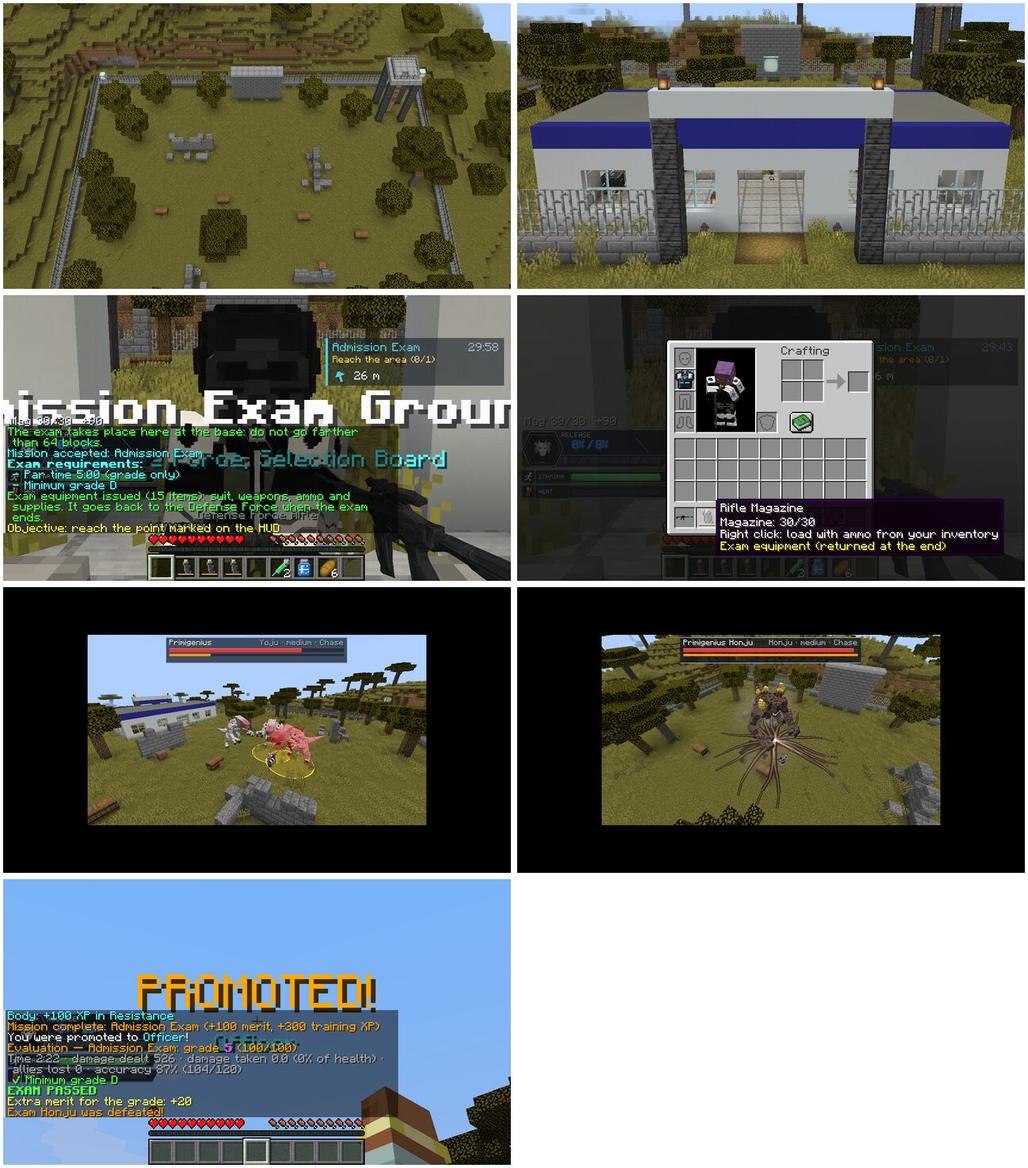
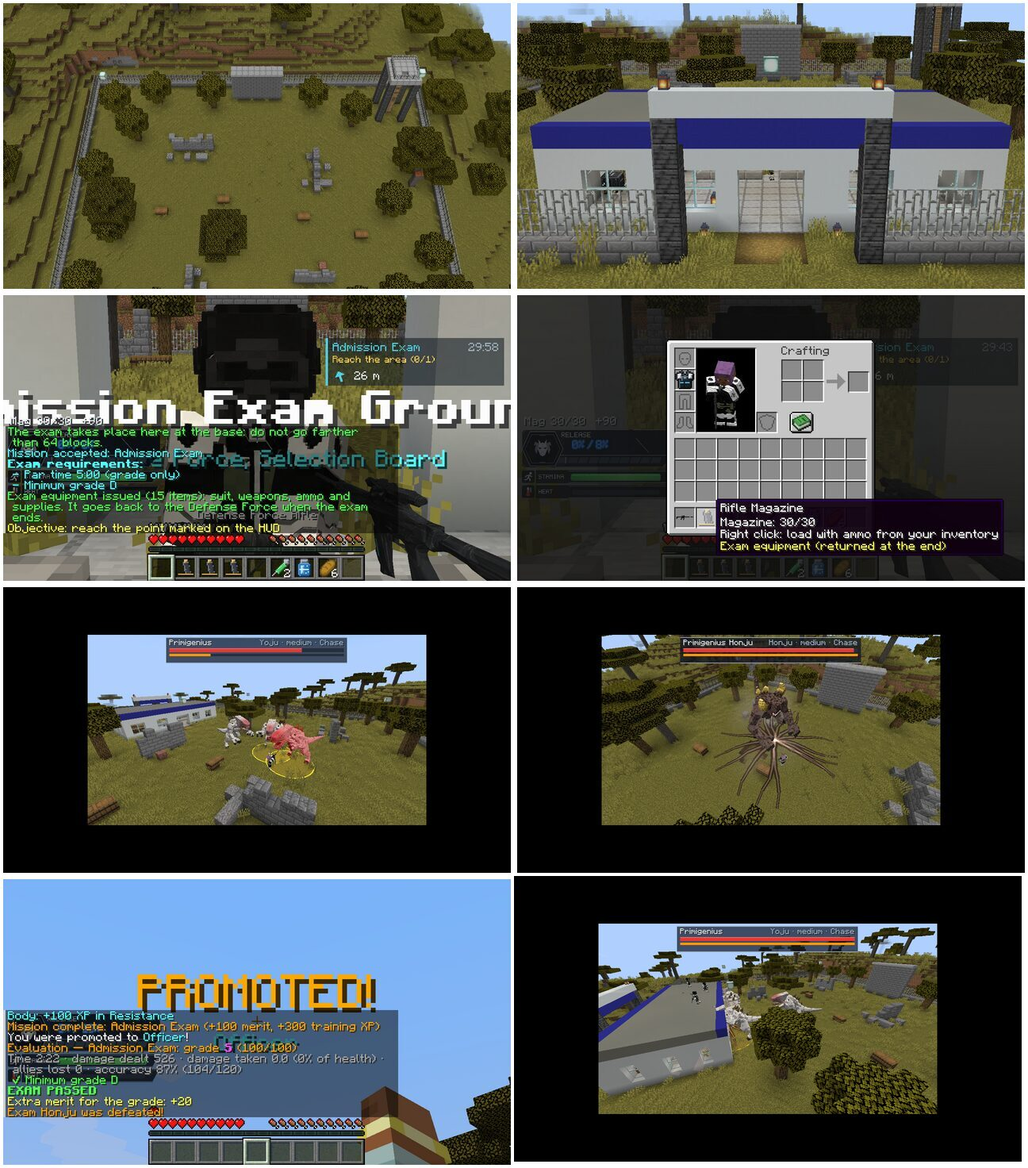
feat(exame): candidatos fazem o exame junto e o aprovado fica com o kit
Claude-Session: https://claude.ai/code/session_017FdjdyWukRvtaFxwV9cKsp

Changed region(s): [[0.4938, 0.75, 1.0, 1.0]]

diff --git a/src/main/java/com/kn8/common/career/MissionService.java b/src/main/java/com/kn8/common/career/MissionService.java
@@ -18,8 +18,10 @@ import com.kn8.common.data.def.MissionDef;
 import com.kn8.common.destruction.ProtectedAreas;
 import com.kn8.common.evacuation.EvacuationService;
 import com.kn8.common.kaiju.KaijuEntity;
+import com.kn8.common.registry.KN8Entities;
 import com.kn8.common.registry.KN8Sounds;
 import com.kn8.common.site.RegionService;
+import com.kn8.common.soldier.SoldierEntity;
 import com.kn8.common.soldier.SquadService;
 import com.kn8.common.world.KaijuSpawner;
 import com.kn8.core.career.MissionGrader;
@@ -36,6 +38,7 @@ import net.minecraft.server.level.ServerLevel;
 import net.minecraft.server.level.ServerPlayer;
 import net.minecraft.sounds.SoundEvents;
 import net.minecraft.sounds.SoundSource;
+import net.minecraft.world.entity.MobSpawnType;
 import net.minecraft.world.item.Item;
 import net.minecraft.world.item.ItemStack;
 
@@ -66,6 +69,9 @@ public final class MissionService {
         NEEDS_SITE
     }
 
+    /** EXAME: arma e nivel dos soldados que fazem a prova junto [SUPOSICAO]. */
+    private static final String CANDIDATE_VARIANT = "rifle";
+    private static final String CANDIDATE_LEVEL = "normal";
     /** EXAME: raio onde estao os invocados que nascem junto do chefe da prova. */
     private static final double BOSS_MINION_RADIUS = 16.0;
     /** EXAME: pontos sorteados para os alvos da prova (fica o mais longe do jogador). */
@@ -168,6 +174,8 @@ public final class MissionService {
             player.sendSystemMessage(Component.translatable(arena.returnKit() ? "kn8.mission.kit_loaned"
                     : "kn8.mission.kit_given", given).withStyle(ChatFormatting.GREEN));
         });
+        def.arena().filter(arena -> arena.candidates() > 0 && origin.isPresent())
+                .ifPresent(arena -> spawnCandidates(player, id, origin.get(), arena.candidates()));
         activateObjective(player, id, def, progress, 0);
         CareerService.changed(player);
         return Result.OK;
@@ -179,6 +187,7 @@ public final class MissionService {
             return false;
         }
         cleanup(player, id, removed);
+        endKit(player, id, false);
         player.sendSystemMessage(Component.translatable("kn8.mission.abandoned", name(id))
                 .withStyle(ChatFormatting.GRAY));
         CareerService.changed(player);
@@ -457,9 +466,11 @@ public final class MissionService {
         cleanup(player, id, progress);
         MissionGrader.Result result = evaluate(player, def, progress);
         if (def.grading().isPresent() && !result.passed()) {
+            endKit(player, id, false);
             failExam(player, id, def, progress, result);
             return;
         }
+        endKit(player, id, true);
         data.completed().add(id);
         data.addMissionDone();
         if (def.repeatable() && def.cooldownTicks() > 0) {
@@ -624,6 +635,7 @@ public final class MissionService {
         CareerData.MissionProgress removed = CareerService.data(player).active().remove(id);
         if (removed != null) {
             cleanup(player, id, removed);
+            endKit(player, id, false);
         }
         player.sendSystemMessage(Component.translatable("kn8.mission.failed." + reason, name(id))
                 .withStyle(ChatFormatting.RED));
@@ -645,10 +657,48 @@ public final class MissionService {
             ProtectedAreas.get(player.serverLevel()).remove(ExamTargets.areaName(player.getUUID(), id));
         });
         EvacuationService.clear(player, id);
-        // EXAME: o kit emprestado volta para a Forca de Defesa quando a prova acaba (de qualquer jeito).
-        KN8Data.MISSION.get(id, false).flatMap(MissionDef::arena).filter(MissionDef.Arena::returnKit)
+        progress.origin().ifPresent(origin -> ExamTargets.clearCandidates(player.serverLevel(), player.getUUID(), id,
+                origin, ServerConfig.EXAM_LEAVE_DISTANCE.get() + 32));
+    }
+
+    /**
+     * EXAME: outros candidatos fazem a prova junto (soldados comuns de rifle no posto do centro do campo, com o nome
+     * "Candidato"); lutam so com os kaiju desta prova e vao embora quando ela acaba.
+     */
+    private static void spawnCandidates(ServerPlayer player, ResourceLocation id, BlockPos center, int count) {
+        ServerLevel level = player.serverLevel();
+        for (int i = 0; i < count; i++) {
+            SoldierEntity soldier = KN8Entities.SOLDIER.get().create(level);
+            if (soldier == null) {
+                continue;
+            }
+            BlockPos pos = KaijuSpawner.surfaceAround(level, player.blockPosition(), 1.5, 3.5, player.getRandom());
+            soldier.moveTo(pos.getX() + 0.5, pos.getY(), pos.getZ() + 0.5, player.getYRot(), 0.0F);
+            soldier.setVariant(CANDIDATE_VARIANT);
+            soldier.setPowerLevel(CANDIDATE_LEVEL);
+            soldier.finalizeSpawn(level, level.getCurrentDifficultyAt(pos), MobSpawnType.EVENT, null);
+            soldier.setSquadPost(center);
+            soldier.setCustomName(Component.translatable("kn8.mission.exam_candidate"));
+            ExamTargets.markCandidate(soldier, player.getUUID(), id);
+            level.addFreshEntity(soldier);
+        }
+        player.sendSystemMessage(Component.translatable("kn8.mission.exam_candidates", count)
+                .withStyle(ChatFormatting.AQUA));
+    }
+
+    /**
+     * EXAME: fim do kit. Aprovado fica com ele (Miguel, 2026-10-30); quem reprova, abandona ou cai devolve (com
+     * {@code return_kit}).
+     */
+    private static void endKit(ServerPlayer player, ResourceLocation id, boolean passed) {
+        KN8Data.MISSION.get(id, false).flatMap(MissionDef::arena).filter(arena -> !arena.kit().isEmpty())
                 .ifPresent(arena -> {
-                    if (ExamKit.take(player, id) > 0) {
+                    if (passed) {
+                        if (ExamKit.release(player, id) > 0) {
+                            player.sendSystemMessage(Component.translatable("kn8.mission.kit_kept")
+                                    .withStyle(ChatFormatting.GREEN));
+                        }
+                    } else if (arena.returnKit() && ExamKit.take(player, id) > 0) {
                         player.sendSystemMessage(Component.translatable("kn8.mission.kit_returned")
                                 .withStyle(ChatFormatting.GRAY));
                     }

diff --git a/src/main/java/com/kn8/gametest/AdmissionExamGameTests.java b/src/main/java/com/kn8/gametest/AdmissionExamGameTests.java
@@ -107,6 +107,37 @@ public final class AdmissionExamGameTests {
         helper.succeed();
     }
 
+    @GameTest(template = TEMPLATE)
+    public static void passedCandidateKeepsTheKit(GameTestHelper helper) {
+        FakePlayer player = player(helper, "keep");
+        MissionDef.Arena arena = KN8Data.MISSION.server().get(EXAM).arena().orElseThrow();
+        helper.assertTrue(arena.candidates() > 0, "O exame de admissao deveria ter outros candidatos");
+        int given = ExamKit.give(player, EXAM, arena.kit());
+        int kept = ExamKit.release(player, EXAM);
+        helper.assertTrue(kept == given, "Aprovado deveria ficar com tudo: " + kept + " de " + given);
+        helper.assertTrue(player.getItemBySlot(EquipmentSlot.CHEST).is(KN8Items.MK1.get())
+                && ExamKit.missionOf(player.getItemBySlot(EquipmentSlot.CHEST)).isEmpty(),
+                "O traje fica vestido e sem a marca do exame");
+        helper.assertTrue(ExamKit.take(player, EXAM) == 0, "Sem a marca nada mais e recolhido");
+        helper.succeed();
+    }
+
+    @GameTest(template = TEMPLATE, timeoutTicks = 120, batch = "kn8_admission_candidate")
+    public static void candidatesFightTheirExamKaiju(GameTestHelper helper) {
+        UUID owner = UUID.randomUUID();
+        SoldierEntity candidate = helper.spawn(KN8Entities.SOLDIER.get(), new BlockPos(2, 1, 2));
+        ExamTargets.markCandidate(candidate, owner, EXAM);
+        KaijuEntity kaiju = helper.spawn(KN8Entities.PRIMIGENIUS.get(), new BlockPos(6, 1, 6));
+        kaiju.setNoAi(true);
+        ExamTargets.mark(kaiju, owner, EXAM);
+        helper.runAfterDelay(60, () -> {
+            helper.assertTrue(candidate.getTarget() == kaiju, "O candidato deveria lutar com o kaiju da prova dele");
+            kaiju.discard();
+            candidate.discard();
+            helper.succeed();
+        });
+    }
+
     @GameTest(template = TEMPLATE, timeoutTicks = 120, batch = "kn8_admission_soldier")
     public static void soldiersLeaveExamKaijuToTheCandidate(GameTestHelper helper) {
         SoldierEntity soldier = helper.spawn(KN8Entities.SOLDIER.get(), new BlockPos(2, 1, 2));

diff --git a/src/main/java/com/kn8/common/data/def/MissionDef.java b/src/main/java/com/kn8/common/data/def/MissionDef.java
@@ -24,17 +24,20 @@ public record MissionDef(Category category, Optional<ResourceLocation> giver, Re
      * EXAME (Miguel, 2026-10-30: "exame de admissao numa area propria, com armas, armadura, municao e itens entregues
      * no inicio"): prova que so pode ser aceita dentro do local {@code site} (registro {@code site}, ex. o Campo do
      * Exame de Admissao); os alvos surgem entre {@code min_distance} e {@code max_distance} do centro do local; o
-     * {@code kit} e entregue ao aceitar (armadura vestida se o slot estiver livre, armas de fogo e pentes cheios) e,
-     * com {@code return_kit}, recolhido no fim (concluida, reprovada ou abandonada).
+     * {@code kit} e entregue ao aceitar (armadura vestida se o slot estiver livre, armas de fogo e pentes cheios); o
+     * aprovado fica com ele (Miguel, 2026-10-30) e, com {@code return_kit}, quem reprova, abandona ou cai devolve.
+     * {@code candidates}: soldados que fazem a prova junto com o jogador (Miguel: "implemente alguns soldados para fazer
+     * o exame com o jogador").
      */
     public record Arena(Optional<ResourceLocation> site, double minDistance, double maxDistance, List<KitItem> kit,
-            boolean returnKit) {
+            boolean returnKit, int candidates) {
         public static final Codec<Arena> CODEC = RecordCodecBuilder.create(i -> i.group(
                 ResourceLocation.CODEC.optionalFieldOf("site").forGetter(Arena::site),
                 Codec.doubleRange(0.0, 256.0).optionalFieldOf("min_distance", 6.0).forGetter(Arena::minDistance),
                 Codec.doubleRange(1.0, 256.0).optionalFieldOf("max_distance", 14.0).forGetter(Arena::maxDistance),
                 KitItem.CODEC.listOf().optionalFieldOf("kit", List.of()).forGetter(Arena::kit),
-                Codec.BOOL.optionalFieldOf("return_kit", true).forGetter(Arena::returnKit)
+                Codec.BOOL.optionalFieldOf("return_kit", true).forGetter(Arena::returnKit),
+                Codec.intRange(0, 16).optionalFieldOf("candidates", 0).forGetter(Arena::candidates)
         ).apply(i, Arena::new));
     }
 

diff --git a/src/main/java/com/kn8/common/career/ExamTargets.java b/src/main/java/com/kn8/common/career/ExamTargets.java
@@ -5,6 +5,7 @@ import java.util.UUID;
 
 import com.kn8.common.arena.TrainingArenaService;
 import com.kn8.common.kaiju.KaijuEntity;
+import com.kn8.common.soldier.SoldierEntity;
 
 import net.minecraft.core.BlockPos;
 import net.minecraft.nbt.CompoundTag;
@@ -32,6 +33,31 @@ public final class ExamTargets {
         tag.putUUID(OWNER, owner);
         tag.putString(MISSION, mission.toString());
         entity.getPersistentData().put(TAG, tag);
+    }
+
+    /** EXAME: soldado que faz a prova junto com o jogador (marca com o dono e a missao, como os kaiju). */
+    public static final String CANDIDATE_TAG = "kn8_exam_candidate";
+
+    public static void markCandidate(Entity entity, UUID owner, ResourceLocation mission) {
+        CompoundTag tag = new CompoundTag();
+        tag.putUUID(OWNER, owner);
+        tag.putString(MISSION, mission.toString());
+        entity.getPersistentData().put(CANDIDATE_TAG, tag);
+    }
+
+    /** Dono da prova que o soldado faz junto (null = nao e candidato). */
+    public static UUID candidateOwner(Entity entity) {
+        CompoundTag tag = entity.getPersistentData().getCompound(CANDIDATE_TAG);
+        return tag.hasUUID(OWNER) ? tag.getUUID(OWNER) : null;
+    }
+
+    /** Fim da prova: os candidatos que a fizeram junto vao embora. */
+    public static void clearCandidates(ServerLevel level, UUID owner, ResourceLocation mission, BlockPos origin,
+            double radius) {
+        level.getEntitiesOfClass(SoldierEntity.class, new AABB(origin).inflate(radius),
+                soldier -> owner.equals(candidateOwner(soldier)) && mission.toString().equals(
+                        soldier.getPersistentData().getCompound(CANDIDATE_TAG).getString(MISSION)))
+                .forEach(Entity::discard);
     }
 
     /** Passa a marca da prova de um kaiju para outro (invocados do chefe da prova). */

diff --git a/src/main/java/com/kn8/common/career/ExamKit.java b/src/main/java/com/kn8/common/career/ExamKit.java
@@ -32,7 +32,8 @@ import net.neoforged.neoforge.event.entity.living.LivingDropsEvent;
 /**
  * Kit do exame (EXAME): itens emprestados pela Forca de Defesa no inicio da prova ({@link MissionDef.Arena#kit}).
  * Cada item leva a marca {@value #TAG} com o id da missao nos dados do item; no fim da prova (e na morte) os itens
- * marcados saem do inventario. Tambem acha o centro do local da prova ({@link MissionDef.Arena#site}).
+ * marcados saem do inventario de quem nao foi aprovado (o aprovado fica com eles, sem a marca). Tambem acha o centro
+ * do local da prova ({@link MissionDef.Arena#site}).
  */
 @EventBusSubscriber(modid = KN8Constants.MOD_ID)
 public final class ExamKit {
@@ -89,6 +90,24 @@ public final class ExamKit {
             }
         }
         return taken;
+    }
+
+    /** Aprovado (Miguel, 2026-10-30: "o aprovado fica"): os itens do kit perdem a marca e passam a ser do jogador. */
+    public static int release(ServerPlayer player, ResourceLocation mission) {
+        int kept = 0;
+        Inventory inventory = player.getInventory();
+        for (int slot = 0; slot < inventory.getContainerSize(); slot++) {
+            ItemStack stack = inventory.getItem(slot);
+            if (missionOf(stack).filter(mission.toString()::equals).isPresent()) {
+                CustomData.update(DataComponents.CUSTOM_DATA, stack, tag -> tag.remove(TAG));
+                if (stack.get(DataComponents.CUSTOM_DATA) != null
+                        && stack.get(DataComponents.CUSTOM_DATA).isEmpty()) {
+                    stack.remove(DataComponents.CUSTOM_DATA);
+                }
+                kept += stack.getCount();
+            }
+        }
+        return kept;
     }
 
     /** Morte durante a prova: os itens do kit nao caem no chao (voltam para a Forca de Defesa). */

diff --git a/src/main/java/com/kn8/common/soldier/SoldierTargetGoal.java b/src/main/java/com/kn8/common/soldier/SoldierTargetGoal.java
@@ -151,15 +151,16 @@ public final class SoldierTargetGoal extends Goal {
     }
 
     /**
-     * EXAME: kaiju de prova e do candidato (o exame nao e ganho pelos soldados); so o esquadrao do dono da prova luta
-     * com eles.
+     * EXAME: kaiju de prova e do candidato (o exame nao e ganho pelos soldados); so o esquadrao do dono da prova e os
+     * candidatos que fazem a prova com ele lutam com eles.
      */
     private boolean examAllowed(KaijuEntity kaiju) {
         if (!ExamTargets.isExam(kaiju)) {
             return true;
         }
         UUID owner = ExamTargets.owner(kaiju);
-        return owner != null && soldier.squadLeader().filter(owner::equals).isPresent();
+        return owner != null && (soldier.squadLeader().filter(owner::equals).isPresent()
+                || owner.equals(ExamTargets.candidateOwner(soldier)));
     }
 
     /** IA-3 (protecao de aliados): o alvo do kaiju e outro soldado ou um jogador. */

diff --git a/CLAUDE.md b/CLAUDE.md
@@ -181,7 +181,7 @@ mandam; se algo precisar mudar, marque **[DECIDIR]** e pergunte.
 | Correcoes da FIX-2 (Miguel, 2026-10-29: "modelos dos numerados e personagens que se partem no meio, armas fora da mao", so a base) | Tres causas medidas (`tools/art/rig_audit.py`: abertura de cada junta em px e distancia do punho ao eixo da arma, com a mesma conta do `SoldierRenderer`; compara com o estado de antes do RIG-2). **1. Arma:** desde o RIG-2 o `item_*` e filho da mao (a ~1 px dela) e o `SoldierRenderer` alinhava a arma ao eixo pai -> item: girava para fora da mao → `armRoot` (osso `arm_*` acima do item: eixo ombro -> item, como antes); `hoshina_hand` no `blockbench_templates.py` igual; pegada das espadas do Hoshina refeita (`gen_hoshina_animations.py`). **2. Pivos:** as especies com a malha e as animacoes de antes (soldado, Hoshina No. 10, Kikoru e No. 4, Mina, Reno e No. 6, Narumi, Kafka, fusao, No. 10 pequeno e gigante) voltam ao pivo antigo em `body`, `head`, `arm_*`, `leg_*` (`tools/art/skins/legacy_pivots.json`, aplicado pelo `rig_from_skin.py`) e ao corte antigo do quadril (rotulos antigos do `.npz`); o tronco do gigante tinha andado 30 px para o lado e 64 para cima. Joelho, pe, peito, cotovelo e punho continuam no rig. Arma = antes do RIG-2 (0,0 px de diferenca). **3. Pernas na raiz:** no rig antigo do No. 10 e da fusao as pernas eram filhas do tronco; o RIG-2 as pos na raiz e a bacia abria quando o tronco inclinava → `legs_on_body`. Fora: Hoshina e No. 8 (modelo novo) e No. 9, forma preta, Isao, No. 13, No. 9 com o Isao (animacoes do `humanoid_anims.py` feitas no rig novo). Faixa de faces sobreposta nas juntas foi testada e descartada (lascas pontudas). Tecnicas nao foram refeitas (COMBATE) |
 | Parkour refeito (FIX-3, Miguel 2026-10-30: "pular em construcoes, agarrar bordas, pular de predio em predio, escalar predios") | **Escalar parede** (estado `ParkourState.CLIMB` e movimento `ParkourMove.WALL_CLIMB` no fim dos enums; protocolo 38): C de frente para parede mais alta que 2 blocos, no chao (tambem chegando nela com C segurado) ou no ar andando para ela; servidor confere a parede e cobra `[parkour] wallClimbCost` + `wallClimbCostPerSecond`, ate `wallClimbMaxTicks`; cliente sobe `wallClimbSpeed` x nivel com W, desce com S (`ParkourMath.climbVertical`), Espaco = wall-jump (CLIMB conta como parede), Shift solta; no topo (borda ate 2 blocos acima) pede a borda sozinho e, com C segurado, sobe. **Borda automatica** (`autoLedgeGrab`): no ar andando para a frente, sem subir rapido, borda de 1,0 a 2,4 acima dos pes (`ParkourMath.autoLedge`), conferida a cada tick com parede a frente (caindo rapido a faixa passava entre checagens); pedido com `side` -1. Borda ate `ledgeMaxHeight` 2,6 (era 2,2), pendurado ate `ledgeMaxTicks` 200 (era 60), A/D anda de lado (`ledgeShimmySpeed`, a velocidade do estado). **Subir a borda:** topo medido de novo na hora e `ledgeClimbMargin` 0,7 acima dele; o vanilla zera a velocidade horizontal enquanto o corpo bate na parede, entao o cliente empurra para dentro por 12 ticks depois do pulo (`MANTLE_PUSH`). Predio em predio = salto longo de antes (~8 blocos) + borda automatica. Animacao `player.parkour.wall_climb` [SUPOSICAO numeros] |
 | Corpo por exercicio (TREINO, Miguel 2026-10-30: "atributos do corpo ganhos por exercicio (corrida, escalada, forca, combate contra soldados), sem ganhar pontos por matar kaiju") | **Kaiju nao treina o corpo:** golpe em kaiju nao da XP de forca e golpe de kaiju nao da XP de resistencia (`[body] xpFromKaiju` false; matar kaiju continua dando experiencia de batalha, o XP de Release dos abates, e merito para subir de patente: Miguel 2026-10-30). **Corrida:** como antes (velocidade por bloco corrido). **Escalada:** `ParkourService.trainClimb` da agilidade e forca por bloco subido no estado `CLIMB` (`xpClimbAgilityPerBlock` 0,6, `xpClimbStrengthPerBlock` 0,3). **Forca:** bloco `kn8:weight_rack` (`WeightRackBlock`/`WeightTraining`): cada uso = repeticao com stamina, XP, intervalo e limite por minuto (`[exercise] lift*`; estado em `getPersistentData()` > `kn8_lift`); bancada (Treino), na ala de treino das bases (3 suportes + torre de escalada de 7) e no Patio de Treino da base do jogador (2); arte `tools/art/gen_weight_rack_assets.py`. **Combate contra soldados** (`SparringService`): Shift + clique de mao vazia num soldado comum (nao especial: [SUPOSICAO]) comeca o treino; os dois podem se ferir pelo mesmo caminho do duelo de teste (`SoldierEntity.isDuelFoe` aceita o par), o `SoldierTargetGoal` so mira o parceiro, ninguem morre (golpe para em 1 de vida), quem cai a `sparYieldFraction` 0,25 perde; soldado bate x`sparPlayerDamageFactor` 0,35; forca por dano no parceiro, resistencia por dano do parceiro, vitoria +15 em todos; fim por tempo (2 min), distancia (24), kaiju a 32, Shift + clique de novo; soldado sai curado e descansa 30 s. Marca no soldado (`kn8_spar`, inicio, espera) e no jogador; dano do treino fora da avaliacao de missao. Numeros [SUPOSICAO] em `docs/BALANCEAMENTO.md` |
-| Exame de admissao (EXAME, Miguel 2026-10-30: "exame de admissao numa area propria, com armas, armadura, municao e itens entregues no inicio"; decisoes do mesmo dia: matar kaiju da experiencia de batalha e sobe patente, treino com especiais depois, numeros depois) | **Area propria:** `kn8:exam_ground` (Campo do Exame de Admissao, `tools/world/gen_exam_ground.py`): campo cercado de 61 x 61 com portao ao sul, pavilhao com o Oficial de Provas, armarios e um suporte de pesos, torre de observacao, refletores e a zona de prova ao norte (mata, ruinas, muro de escalada, caixas); sem soldados. Nasce no conjunto `kn8:defense_sites` (peso 2, `kn8:checked_jigsaw` com raio 40, desnivel 10, as mesmas vilas evitadas) e e local (`site/exam_ground.json`, divisao `selection`: nome na tela e regiao). **Bloco `arena` no `mission/*.json`** (`MissionDef.Arena`): `site` (a prova so e aceita dentro do local: `MissionService.Result.NEEDS_SITE`; o centro do local vira a origem), `min_distance`/`max_distance` dos alvos, `kit` (`item`, `count`) e `return_kit`. **Kit** (`ExamKit`): entregue ao aceitar com a marca `kn8_exam_kit` nos dados do item (armadura vestida no slot livre, pentes cheios, arma de fogo cheia), dica amarela no item, recolhido no fim (concluida, reprovada, abandonada) e nao cai na morte. `exam` (Candidato -> Oficial) com o kit Mk1, rifle, 3 pentes, 60 balas, faca, 2 estimulantes, resfriador, 6 paes; deixou de pedir o Primeiro Desmonte [SUPOSICAO]. **Alvos da prova longe do candidato** (`MissionService.targetArea`: o ponto mais longe entre 9 sorteados) e **invocados do chefe da prova com a marca da prova** (`ExamTargets.copy`, no `BossService.summonMinions` e na hora do surgimento). **Soldados nao lutam com kaiju da prova de outro jogador** (`SoldierTargetGoal.examAllowed`: so o esquadrao do dono) [SUPOSICAO numeros e kit] |
+| Exame de admissao (EXAME, Miguel 2026-10-30: "exame de admissao numa area propria, com armas, armadura, municao e itens entregues no inicio"; decisoes do mesmo dia: matar kaiju da experiencia de batalha e sobe patente, treino com especiais depois, numeros depois) | **Area propria:** `kn8:exam_ground` (Campo do Exame de Admissao, `tools/world/gen_exam_ground.py`): campo cercado de 61 x 61 com portao ao sul, pavilhao com o Oficial de Provas, armarios e um suporte de pesos, torre de observacao, refletores e a zona de prova ao norte (mata, ruinas, muro de escalada, caixas); sem soldados. Nasce no conjunto `kn8:defense_sites` (peso 2, `kn8:checked_jigsaw` com raio 40, desnivel 10, as mesmas vilas evitadas) e e local (`site/exam_ground.json`, divisao `selection`: nome na tela e regiao). **Bloco `arena` no `mission/*.json`** (`MissionDef.Arena`): `site` (a prova so e aceita dentro do local: `MissionService.Result.NEEDS_SITE`; o centro do local vira a origem), `min_distance`/`max_distance` dos alvos, `kit` (`item`, `count`) e `return_kit`. **Kit** (`ExamKit`): entregue ao aceitar com a marca `kn8_exam_kit` nos dados do item (armadura vestida no slot livre, pentes cheios, arma de fogo cheia), dica amarela no item, nao cai na morte; **o aprovado fica com ele** (marca tirada, `ExamKit.release`; Miguel 2026-10-30) e quem reprova, abandona ou cai devolve (`return_kit`). **Candidatos** (`arena.candidates`, 3 no `exam`; Miguel: "implemente alguns soldados para fazer o exame com o jogador"): soldados comuns de rifle com o nome "Candidato", posto no centro do campo, marca `kn8_exam_candidate` com o dono; lutam so com os kaiju desta prova (o abate deles conta para a prova) e somem no fim. `exam` (Candidato -> Oficial) com o kit Mk1, rifle, 3 pentes, 60 balas, faca, 2 estimulantes, resfriador, 6 paes; deixou de pedir o Primeiro Desmonte [SUPOSICAO]. **Alvos da prova longe do candidato** (`MissionService.targetArea`: o ponto mais longe entre 9 sorteados) e **invocados do chefe da prova com a marca da prova** (`ExamTargets.copy`, no `BossService.summonMinions` e na hora do surgimento). **Soldados nao lutam com kaiju da prova de outro jogador** (`SoldierTargetGoal.examAllowed`: so o esquadrao do dono) [SUPOSICAO numeros e kit] |
 | Decisoes de 2026-10-30 (Miguel, depois da COMBATE-8) | **1.** Os estouros do Narumi que leem brancos entram junto com os tamanhos e tempos dos efeitos (quando o Miguel mandar). **2.** Sem prompts do ElevenLabs para as tecnicas novas por ora. **3.** Seguir para a FIX-3. **4.** Etapa final nova **SONS** (depois da transformacao parcial): arrumar os sons do mod, inclusive som proprio para as tecnicas (hoje reaproveitam espada/machado/especial; NPC comecam todas com `sword_swing`). Ordem: FIX-3 -> TREINO -> EXAME -> HOST (Release 0,1%-1%) -> CIDADES -> transformacao parcial -> SONS. **Conteudo das etapas (Miguel, 2026-10-30):** FIX-3 = parkour refeito (pular em construcoes, agarrar bordas, pular de predio em predio, escalar predios); TREINO = atributos do corpo ganhos por exercicio (corrida, escalada, forca, combate contra soldados), sem pontos por matar kaiju; EXAME = exame de admissao numa area propria, com armas, armadura, municao e itens entregues no inicio; HOST = hospedeiro da larva com Release humano de 0,1% a 1% e transformacao parcial (braco etc.); CIDADES = cidades maiores com as bases da Forca de Defesa dentro e invasoes e missoes dentro delas |
 | Regressao do combate (COMBATE-8, Miguel 2026-10-30: "pode fazer a etapa 8") | So regressao, sem numeros. **Auditoria** `tools/combat/auditar_tecnicas.py` (rodar a cada tecnica nova): por tecnica do jogador (animacao `player.<arma>.special(_<id>)`, nome nos dois idiomas, receita no perfil `player`, som) e das NPC (lista `ANIMATED*` da entidade, `<prefixo>.action.<id>`, receita); tabela em `docs/COMBATE8_REGRESSAO.md`. **Arma sem `special` no JSON** (baioneta do Narumi): o servidor manda a primeira tecnica como `player.<arma>.special`; o `gen_player_animations.py` copia a animacao dela para esse nome. **GameTest** `everyPlayerTechniqueFires`: o jogador usa todas as tecnicas das armas com mais de uma (vida baixa e ultimo estagio montados so para quem pede; Falling Thunder no chao recusado). Sons: nenhuma tecnica nova tem som proprio (regra do AUDIO-0) |
 | Decisoes de 2026-10-30 (Miguel, depois da COMBATE-7) | **1.** Todos os numeros das tecnicas e efeitos novos (COMBATE-1 a 7) sao previa: o balanceamento fica para depois (sai da COMBATE-8, que fica so com a regressao: GameTests, efeitos e sons). **2.** No. 8 NPC com 3 m sem remedir os duelos: aceito. **3.** No. 8 NPC sem alvo volta a ser o Kafka (como antes): continua assim |
@@ -353,7 +353,7 @@ mandam; se algo precisar mudar, marque **[DECIDIR]** e pergunte.
 | **RIG-2 — ossos articulados dos outros 16 modelos** (soldado, Hoshina e No. 10, Kikoru e No. 4, Mina, Reno e No. 6, Narumi, Kafka, Kaiju No. 8 e No. 9, forma preta, fusao, No. 10 pequeno e gigante; No. 8 e Hoshina com modelo novo) | ✅ build, GameTests 291/291 (uma rodada antes com o `invasionRunsWavesAndBreaks` ja instavel); previa dos 16 cortes e das poses; em jogo com servidor dedicado + 2 clientes (`docs/img/rig2_dezesseis_modelos.jpg`): os 16 na fila sem buraco, cauda/asas no lugar, Hoshina novo com as espadas nas maos, braco do No. 8 novo em 1a pessoa, luta Hoshina + No. 8 x forma preta (o No. 8 sem alvo volta a ser o Kafka); golpes um a um so pela previa; aguardando o Miguel (roteiro §107) |
 | **FIX-1 — correcoes pedidas** (ovo do Oficial de Missoes, espada em guarda, Release acima do limite so fere com o calor no maximo, jogador sem empurrao, sons do mod a 35%) | ✅ build, GameTests 291/291 (uma rodada antes com o `guardFightsInsideTheArea` ja instavel); em jogo com servidor dedicado + 2 clientes (`docs/img/fix1_espada_ovo.jpg`): ovo preto e dourado na barra, espada em guarda vista pelo Dev2, Release 60% com limite 40 sem dano por 29 s e dano so no calor maximo, empurrao 0 contra 2 blocos com `playerKnockback` 1, audio gravado do cliente: rugido (volume 4) e acerto da espada a 35% da altura e o rugido a 40 blocos ainda ouvido; aguardando o Miguel (roteiro §108) |
 | **FIX-2 — modelos inteiros e armas na mao** (eixo da arma ombro -> mao de novo, pivos e corte do quadril de antes do RIG-2 nas especies com animacoes antigas, pernas do No. 10 e da fusao filhas do tronco) | ✅ build, JUnit 192/192, GameTests 291/291 em 2 de 3 rodadas (a outra: `invasionRunsWavesAndBreaks` e `yojuBreaksAStoneBrickWallWhileWalking`, ja instaveis); `rig_audit.py`: armas de 8 personagens iguais a antes do RIG-2 (eram ate 17 px fora no machado da Kikoru No. 4), espadas do Hoshina a ate 2 px do punho, quadril do No. 10/fusao como antes; em jogo com servidor dedicado + 2 clientes (`docs/img/fix2_armas_e_juntas.jpg`): os 11 humanos com a arma na mao parados e a Kikoru com o machado na mao correndo e lutando contra um Primigenius Honju; numerados andando so pela previa; aguardando o Miguel (roteiro §109) |
-| **EXAME — exame de admissao** (Campo do Exame de Admissao no mapa, exame so aceito la, kit de traje/armas/municao/itens entregue no inicio e devolvido no fim) | ✅ build, GameTests 313/313 em 4 rodadas seguidas (3 novos: `admissionExamOnlyAtTheExamGrounds`, `examKitIsIssuedFullAndReturned`, `soldiersLeaveExamKaijuToTheCandidate`; os de locais contam 5); em jogo com servidor dedicado + 2 clientes num mundo novo (semente 8008, `/locate` acha o campo a 2 mil blocos; `docs/img/exame_admissao.jpg`): campo visto de cima e o pavilhao, nome do local na tela, "NEEDS_SITE" com um Oficial de Provas fora do campo, aceite dentro com o kit (Mk1 vestido, rifle, pentes 30/30, dica amarela), 3 Primigenius, chefe com o invocado marcado e sem alerta na regiao, "PROMOVIDO", nota S e inventario vazio no fim; dois defeitos achados e corrigidos em jogo (ver bugs); o candidato sem ajuda morreu duas vezes para os 3 Primigenius (o fluxo inteiro foi conferido com Resistencia V: numero para o balanceamento) e o kit nao caiu no chao na morte; aguardando o Miguel (roteiro §120) |
+| **EXAME — exame de admissao** (Campo do Exame de Admissao no mapa, exame so aceito la, kit de traje/armas/municao/itens entregue no inicio e devolvido no fim) | ✅ build, GameTests 315/315 em 3 de 4 rodadas depois dos candidatos e do kit que fica (5 novos no total: `passedCandidateKeepsTheKit`, `candidatesFightTheirExamKaiju`; a outra rodada so com o `playerTechniquesCycleWithOwnCooldowns`, da COMBATE-1, sem mudanca nesta etapa), antes 313/313 em 4 rodadas (`admissionExamOnlyAtTheExamGrounds`, `examKitIsIssuedFullAndReturned`, `soldiersLeaveExamKaijuToTheCandidate`; os de locais contam 5); em jogo com servidor dedicado + 2 clientes num mundo novo (semente 8008, `/locate` acha o campo a 2 mil blocos; `docs/img/exame_admissao.jpg`): campo visto de cima e o pavilhao, nome do local na tela, "NEEDS_SITE" com um Oficial de Provas fora do campo, aceite dentro com o kit (Mk1 vestido, rifle, pentes 30/30, dica amarela), 3 Primigenius, chefe com o invocado marcado e sem alerta na regiao, "PROMOVIDO", nota S e inventario vazio no fim; dois defeitos achados e corrigidos em jogo (ver bugs); o candidato sem ajuda morreu duas vezes para os 3 Primigenius (o fluxo inteiro foi conferido com Resistencia V: numero para o balanceamento) e o kit nao caiu no chao na morte; depois: os 3 candidatos nascem no pavilhao, atiram nos Primigenius que perseguem o Dev (220 -> 170 em 24 s) e somem no fim, e o aprovado fica com o kit sem a marca; aguardando o Miguel (roteiro §120) |
 | **TREINO — corpo por exercicio** (sem XP do corpo lutando com kaiju; escalada da XP; suporte de pesos; treino de combate contra soldado comum) | ✅ build, GameTests 310/310 em 2 de 3 rodadas (4 novos: `hittingKaijuDoesNotTrainTheBody`, `weightRackTrainsStrengthWithLimits`, `sparringIsNonLethalAndRewardsTheWinner`, `sparringRefusedWithKaijuNearby`; a outra rodada so com o `invasionRunsWavesAndBreaks`, ja instavel); em jogo com servidor dedicado + 2 clientes (`docs/img/treino_exercicios.jpg`): 12 repeticoes no suporte (forca 0 -> 1), treino perdido (o soldado parou o Dev a 25% em ~5 s sem ele reagir: dano baixado de 0,5 para 0,35) e vencido em ~3 s com a espada (+15 em tudo, soldado curado), escalada de 12,7 blocos com XP de agilidade e forca, Primigenius 220 -> 189 sem XP de forca, ala de treino com os suportes e a torre; tempo e distancia do treino so pelo codigo; aguardando o Miguel (roteiro §119) |
 | **FIX-3 — parkour refeito** (escalar predios, borda automatica, andar de lado pendurado, subir a borda passando por cima, predio em predio) | ✅ build, JUnit (ParkourMath 2 novos), GameTests 306/306 em 2 de 3 rodadas (3 novos: `wallClimbUpABuildingAndOverTheTop`, `wallClimbJumpsAwayFromTheWall`, `autoLedgeGrabWhileFalling`; a outra so com o `invasionRunsWavesAndBreaks`, ja instavel); em jogo com servidor dedicado + 2 clientes (`docs/img/fix3_parkour.jpg`): torre de 14 blocos escalada com C+W em ~4 s e passando por cima, salto atravessando vao de 5 blocos entre telhados, pulo curto que bate na parede pendurado sozinho na borda, A/D andando 3,7 blocos pendurado, Espaco subindo para o telhado (tres defeitos achados e corrigidos em jogo, ver bugs); aguardando o Miguel (roteiro §118) |
 | **COMBATE-8 — regressao do combate** (auditoria das 133 tecnicas do jogador e das NPC, Eruption Slash do jogador sem animacao corrigida, GameTest com todas as tecnicas do jogador; numeros para depois) | ✅ build, GameTests 303/303 em 3 rodadas (1 novo: `everyPlayerTechniqueFires`, 44 tecnicas); auditoria 0 lacunas; em jogo com servidor dedicado + 2 clientes (`docs/img/combate8_regressao.jpg`): Eruption Slash do jogador com as estocadas, Thunder Fire, Flame Shower e Sky Turner (pendentes da COMBATE-6) num Honju parado; estouros mais brancos que rosa/laranja de longe; relatorio `docs/COMBATE8_REGRESSAO.md`; aguardando o Miguel (roteiro §117) |

diff --git a/docs/ROTEIRO_TESTE_0_1_B.md b/docs/ROTEIRO_TESTE_0_1_B.md
@@ -1668,8 +1668,8 @@ Jogador em sobrevivencia com a patente Candidato (`/kn8 rank set kn8:candidato <
 |---|---|---|
 | 120.1 | Ir ao campo | Campo cercado com portao, pavilhao, torre, mata e ruinas; ao entrar, "Campo do Exame de Admissao / Forca de Defesa, Comissao de Selecao" |
 | 120.2 | Oficial de Provas de uma base (fora do campo): aceitar o Exame de Admissao | Recusado: "Este exame acontece no Campo do Exame de Admissao" |
-| 120.3 | No pavilhao, falar com o Oficial de Provas e aceitar o exame | Kit entregue: Mk1 vestido, rifle e 3 pentes cheios, 60 balas, faca, estimulantes, resfriador, pao; dica amarela "Equipamento do exame" nos itens |
+| 120.3 | No pavilhao, falar com o Oficial de Provas e aceitar o exame | Kit entregue: Mk1 vestido, rifle e 3 pentes cheios, 60 balas, faca, estimulantes, resfriador, pao; dica amarela "Equipamento do exame" nos itens; 3 soldados "Candidato" nascem e fazem a prova junto |
 | 120.4 | Seguir a HUD ate a area | Os 3 Primigenius surgem longe do jogador (nao em cima) |
-| 120.5 | Vencer os 3 e o Honju do exame | O Primigenius que o Honju invoca nao deixa carcaca e a regiao nao entra em combate; no fim "PROMOVIDO" a Oficial, nota e o kit sai do inventario |
-| 120.6 | Repetir e morrer durante a prova | "Missao fracassada"; nenhum item do kit fica no chao |
+| 120.5 | Vencer os 3 e o Honju do exame | O Primigenius que o Honju invoca nao deixa carcaca e a regiao nao entra em combate; no fim "PROMOVIDO" a Oficial, nota, o kit fica com o jogador (sem a dica amarela) e os candidatos vao embora |
+| 120.6 | Repetir e morrer (ou abandonar) durante a prova | "Missao fracassada"; o kit volta para a Forca de Defesa e nenhum item dele fica no chao |
 | 120.7 | Soldado comum perto de um kaiju da prova de outro jogador | O soldado nao ataca esse kaiju |

diff --git a/docs/BALANCEAMENTO.md b/docs/BALANCEAMENTO.md
@@ -447,7 +447,7 @@ corpo (`[body] xpFromKaiju` false liga de volta). O XP de Release (limite pessoa
 
 **Exame de admissao (EXAME, `mission/exam.json`, bloco `arena`)** [SUPOSICAO]: alvos a 6-14 blocos do centro do
 Campo do Exame; kit Mk1, rifle (30), 3 pentes (90), 60 balas avulsas, faca de combate, 2 estimulantes, resfriador e 6
-paes, devolvido no fim. Objetivos de antes: chegar a area, 3 Primigenius, Honju do exame (x0,444 da vida, invoca
+paes; fica com o aprovado e volta se reprovar. 3 candidatos (soldados comuns de rifle, nivel normal) fazem a prova junto. Objetivos de antes: chegar a area, 3 Primigenius, Honju do exame (x0,444 da vida, invoca
 Primigenius). Medido em jogo: o candidato sem ajuda morre para os 3 Primigenius juntos (duas vezes, em ~3 s e ~20 s,
 inclusive com Resistencia IV); com 120 balas sobrou um Primigenius com 40 de vida (por isso as 60 avulsas). Revisar no
 balanceamento.
